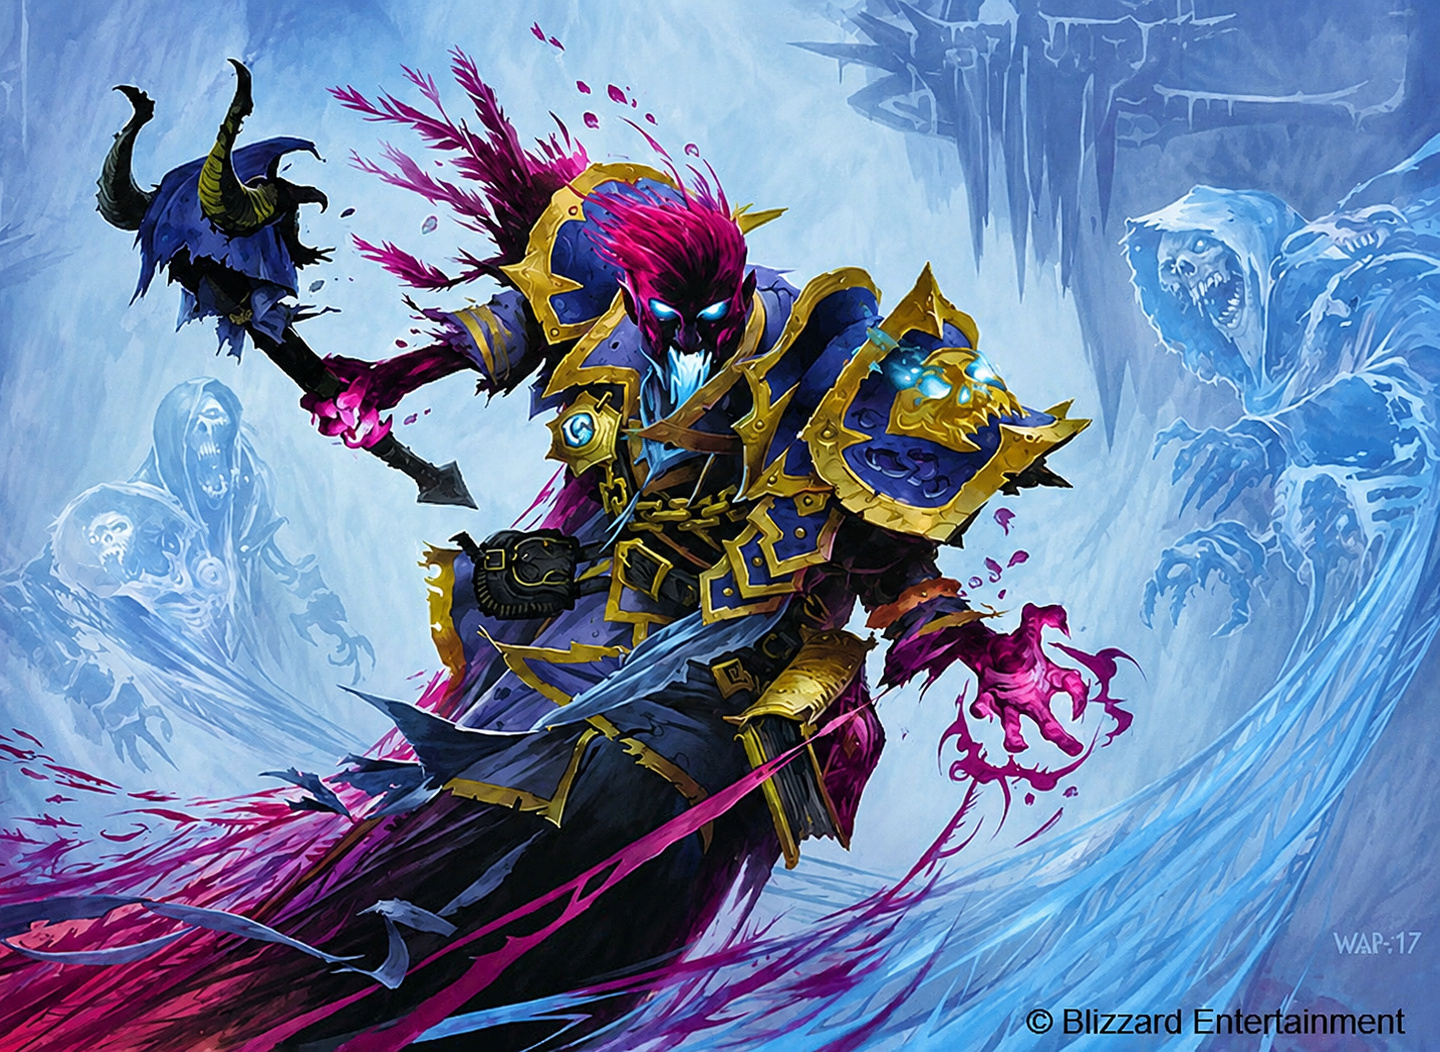
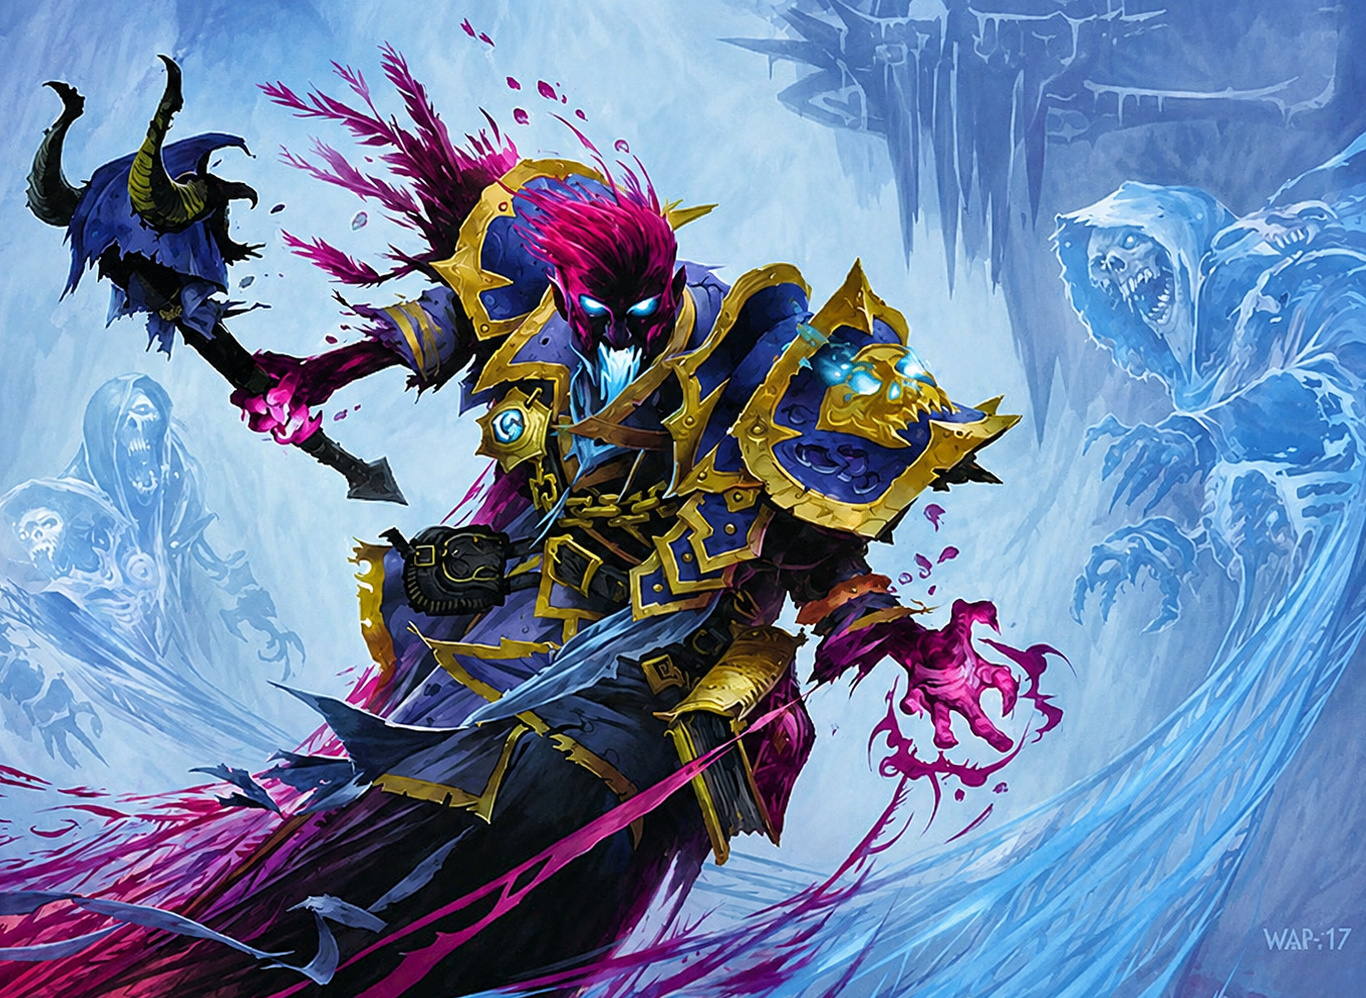
Replace Shadowreaper Anduin artwork

diff --git a/custom/tests/test_shadowreaper_anduin.py b/custom/tests/test_shadowreaper_anduin.py
@@ -10,7 +10,7 @@ ART_BACKUP = (
     ROOT
     / "tools"
     / "card-artwork"
-    / "codex-clipboard-98a839dd-98c9-4c2b-86c9-ff0844e206c4.png"
+    / "codex-clipboard-0a9b317b-89f9-4e02-a2ad-fd23b1585f00.png"
 )
 ZH_CN = ROOT.parent / "forge-gui" / "res" / "languages" / "cardnames-zh-CN.txt"
 
@@ -76,7 +76,7 @@ class ShadowreaperAnduinContractTest(unittest.TestCase):
 
         self.assertTrue(ART.is_file(), ART)
         with Image.open(ART) as image:
-            self.assertEqual((1440, 1052), image.size)
+            self.assertEqual((1366, 998), image.size)
             self.assertEqual("RGB", image.mode)
             self.assertAlmostEqual(1.37, image.width / image.height, places=2)
 
